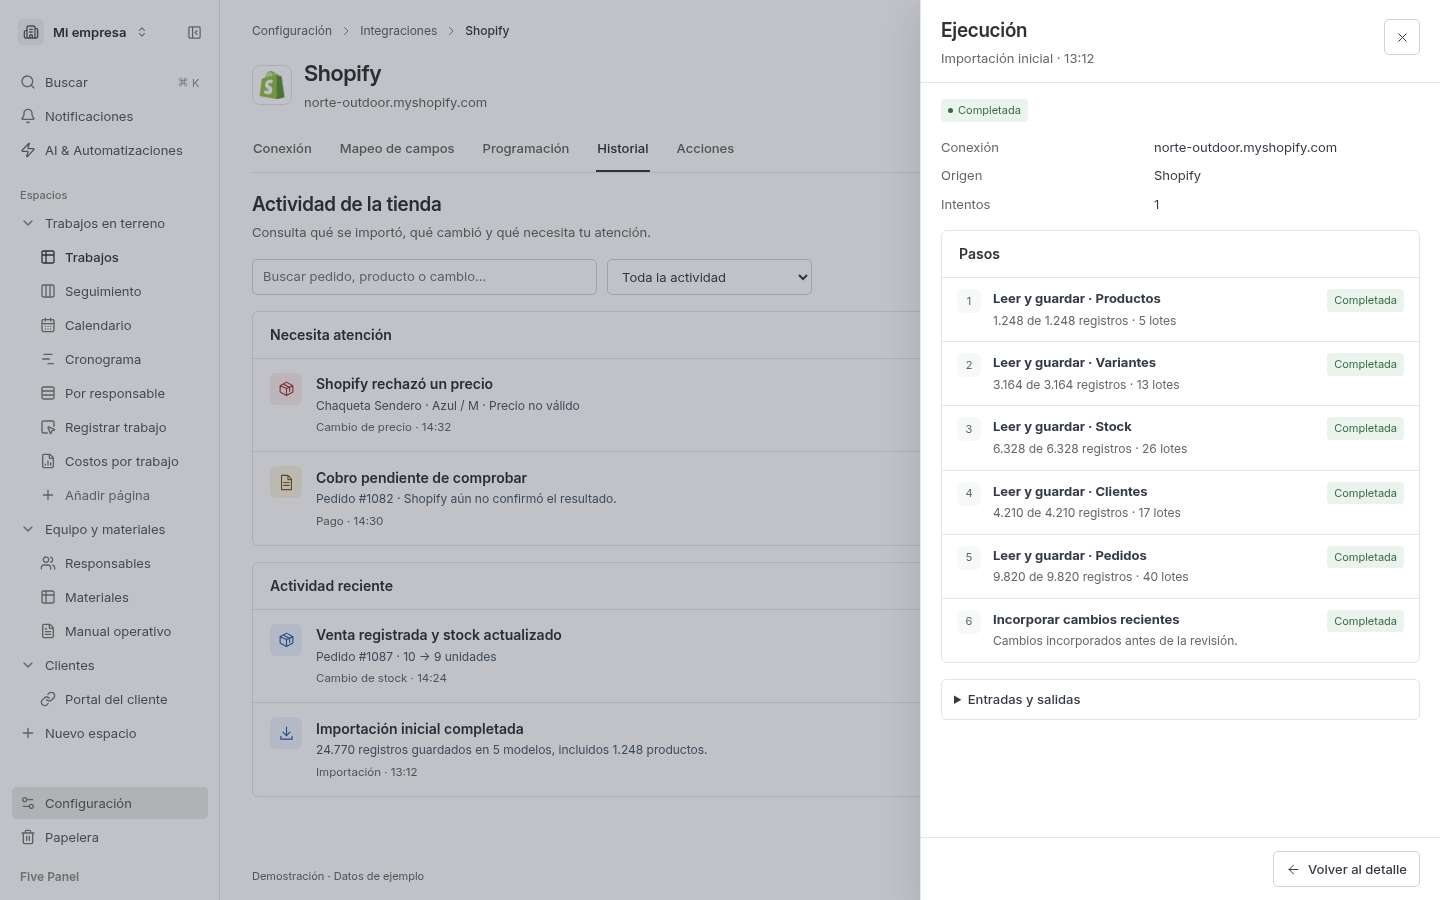
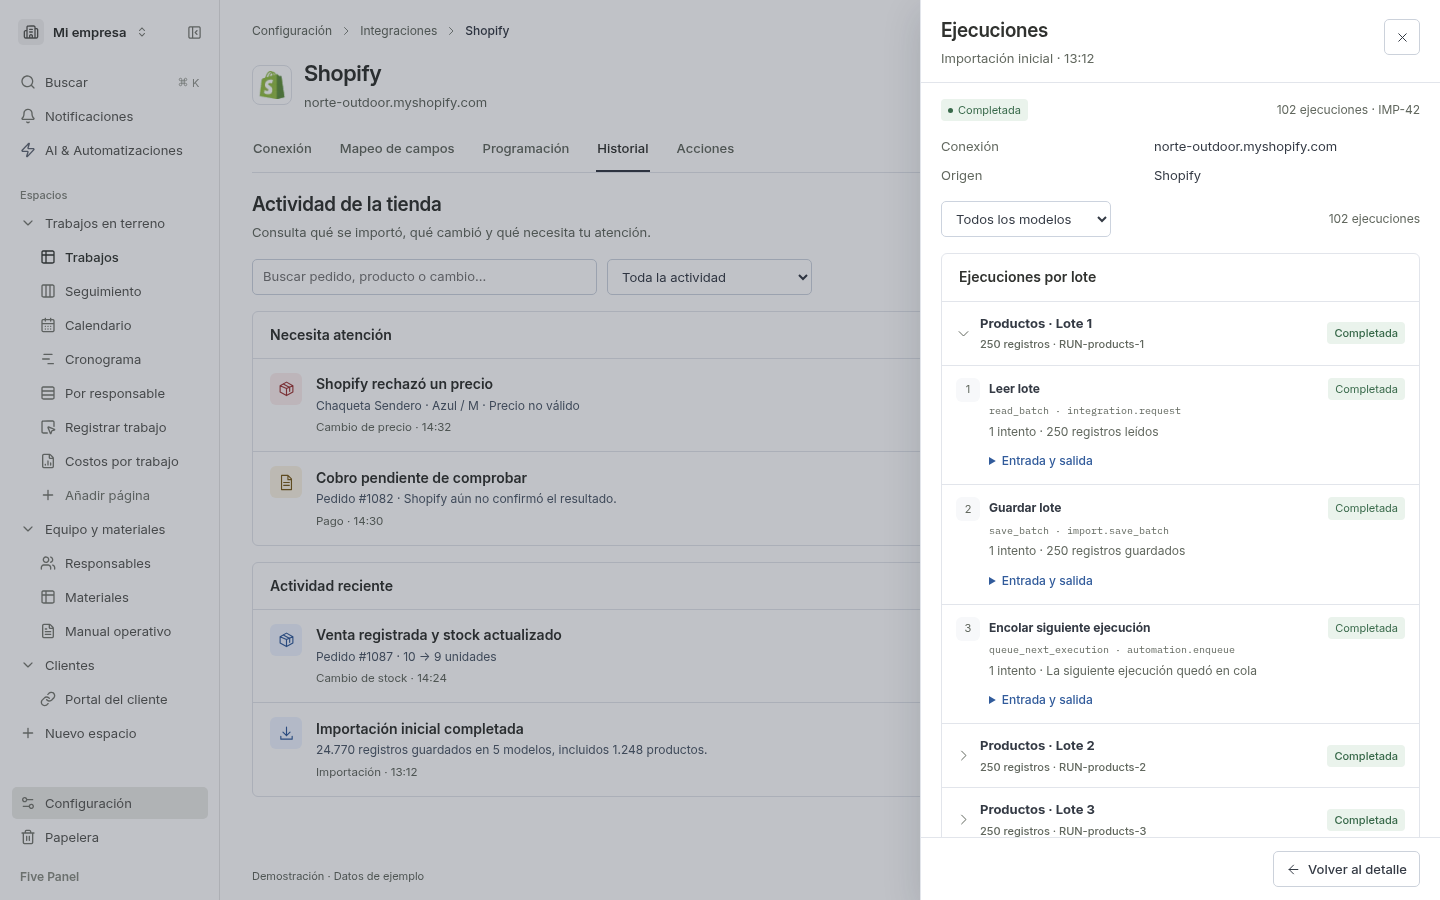
Show each import batch as its own execution

diff --git a/docs/superpowers/plans/2026-11-11-shopify-integration.md b/docs/superpowers/plans/2026-11-11-shopify-integration.md
@@ -67,6 +67,7 @@ Define shared types in proposed `backend/src/types/integration.ts`:
 - `SaveBatchResult`: `{ saved: number; processed: number; nextExecution: NextExecution }`.
 - `ImportReview`: import ID/phase, per-resource counts and sample-record links, ownership/schedule/action summaries, permission/baseline warnings, and `canActivate: boolean` with blocking reasons.
 - `ActivityPage`: `{ items: ActivitySummary[]; nextCursor: string | null }`; `ActivitySummary` contains operation ID, business kind/status/summary, progress, record/execution links, and allowed follow-up actions. Define these DTOs with the shared activity service in Task 9.
+- `ExecutionPage`: `{ items: ExecutionSummary[]; nextCursor: string | null }`; each summary contains the existing run ID, resource, batch number, status, time, and step statuses. Fetch that run's saved step inputs/outputs, attempt counts, and errors when expanded.
 
 IDs are real UUIDs in storage and API calls. `IMP-42`, `page-2`, 250, and 1,248 in the conversation are explanatory examples; provider cursors are opaque, and totals can be unknown.
 
@@ -137,7 +138,7 @@ The Shopify preset uses a pinned Admin GraphQL API version, initially `2026-10`.
 
 **Files:** create `backend/src/services/ConnectionImportService.ts`, `backend/src/services/RecordLinkService.ts`, `backend/src/services/automation/importSaveBatch.ts`, `backend/src/integrations/shopify/importDefinitions.ts`, and `backend/src/routes/connectionRoutes.ts`; modify configuration repository, automation service/handler map, `backend/src/services/DataService.ts`, `ModelService.ts`, `backend/src/types/schema.ts`, and `backend/src/index.ts`; test new `backend/test/integration/connectionImports.test.ts`.
 
-**Interfaces:** import service produces `start({ user, connectionId }): Promise<{ importId: string }>`, `saveBatch({ context, importId, resource, cursor, batch }): Promise<SaveBatchResult>`, and `review({ user, connectionId }): Promise<ImportReview>`. Link service produces `findOrSave({ user, mapping, remoteId, values, eventContext }): Promise<{ recordId: string; created: boolean }>` using `DataService`.
+**Interfaces:** import service produces `start({ user, connectionId }): Promise<{ importId: string }>`, `saveBatch({ context, importId, resource, batchNumber, cursor, batch }): Promise<SaveBatchResult>`, and `review({ user, connectionId }): Promise<ImportReview>`. Link service produces `findOrSave({ user, mapping, remoteId, values, eventContext }): Promise<{ recordId: string; created: boolean }>` using `DataService`.
 
 - [ ] Test incomplete mappings, duplicate IDs, interrupted save/enqueue, replayed cursor, unknown total, and a Shopify-owned starting value in a future Five Panel-owned field. Assert failed batches roll back records, progress, and events; completed batches remain after the next step fails.
 - [ ] Add authenticated `POST /connections/:id/imports` for **Save and import** and `GET /connections/:id/import-review`. Validate selected mappings, dependencies, locations, and permissions. Under the connection lock, repeated starts return the same active import. Freeze its mapping version; edits require new review, not checkpoint rewriting.
@@ -145,9 +146,10 @@ The Shopify preset uses a pinned Admin GraphQL API version, initially `2026-10`.
 - [ ] Establish each location's starting stock with a final inventory read after catch-up; save its observation/cutover and mark already represented movements without subtracting them again. New movement identity uses the movement's time/state, not the parent order's creation time. If a consistent baseline cannot be confirmed, retain pending stock and block outgoing quantity writes.
 - [ ] Save selected external IDs on business records for import/external creation, using compatible unique fields. Add generic `systemManaged?: boolean` field metadata and an internal `managedFieldWrites?: string[]` DataService option. Ordinary API/automation writes cannot change those IDs; only the validated link service supplies that option. Model edits preserve the managed flag. Test ordinary edit denial and authorized link writes. Do not assume the reserved `externalId` column supports arbitrary updates; conflicting links stop for explicit review, never fuzzy matching.
 - [ ] Lock the current import checkpoint, validate expected cursor, save records/events/progress and the runner's next **step** job in one transaction. `save_batch` returns `nextExecution`; it does not start the next batch. The checkpoint rejects stale replays and unchanged cursors. After the last resource, catch up and return `nextExecution: null`.
+- [ ] Each batch creates one run with the complete read/save/enqueue sequence. Save trusted resource/batch metadata; a retry keeps its run ID, completed read output, and step positions. Configure `save_batch` for three attempts with a five-second delay on normalized `temporary_database_error`. A safe manual retry uses the existing retry-wait path and cannot shorten its saved delay or increase its limit.
 - [ ] Run `npx tsx --test test/integration/connectionImports.test.ts` in `backend/` against a fresh disposable database. Assert five batch executions for the 1,248/250 fixture, cumulative counts `250, 500, 750, 1000, 1248`, and one stable `operationId = importId`. Commit.
 
-Each connection/resource receives a preset batch automation with a fixed action, preserving Task 4's snapshot rule. The initial event carries `importId`, `cursor: null`, and `limit`; each successor includes the opaque next cursor. The same import ID groups resources and catch-up work.
+Each connection/resource receives a preset batch automation with a fixed action, preserving Task 4's snapshot rule. The first event carries `importId`, `cursor: null`, `limit`, and `batchNumber: 1`; a successor increments its resource's batch number and includes the opaque cursor. A new resource starts at batch 1. The same import ID groups resources and catch-up work.
 
 ```json
 {
@@ -171,9 +173,11 @@ Each connection/resource receives a preset batch automation with a fixed action,
       "input": {
         "importId": "{{ event.data.importId }}",
         "resource": "products",
+        "batchNumber": "{{ event.data.batchNumber }}",
         "cursor": "{{ event.data.cursor }}",
         "batch": "{{ steps.read_batch.output.data }}"
-      }
+      },
+      "retry": { "maxAttempts": 3, "delaySeconds": 5, "retryableErrors": ["temporary_database_error"] }
     },
     {
       "name": "queue_next_execution",
@@ -224,11 +228,11 @@ Each connection/resource receives a preset batch automation with a fixed action,
 
 **Files:** create `backend/src/services/AutomationActivityService.ts`, `backend/src/repositories/AutomationActivityRepository.ts`, `backend/src/routes/automationActivityRoutes.ts`; extend trusted event metadata, automation service/repository, and run filtering; test new `backend/test/integration/automationActivity.test.ts`.
 
-**Interfaces:** `find({ user, connectionId?, operationId?, cursor? }): Promise<ActivityPage>` returns grouped activity and contextual record/action links. Extend trusted emit metadata with `{ connectionId, resource?, recordId?, action?, activityKind }`; the client cannot supply company or trusted source metadata. Activity IDs are operation IDs.
+**Interfaces:** `find({ user, connectionId?, operationId?, cursor? }): Promise<ActivityPage>` returns grouped activity and contextual record/action links. Add `findExecutions({ user, operationId, resource?, cursor? }): Promise<ExecutionPage>`. Extend trusted emit metadata with `{ connectionId, resource?, batchNumber?, recordId?, action?, activityKind }`; the client cannot supply company or trusted source metadata. Activity IDs are operation IDs; execution IDs are the existing run IDs.
 
-- [ ] Test one import activity across five runs, restarted batches, two companies, and more than 100 runs. Assert cumulative progress is not summed twice and all execution pages remain reachable; do not inherit the current unpaginated 100-run default.
+- [ ] Test one import activity across five runs, a retried batch, two companies, and more than 100 runs. Assert cumulative progress is not summed twice, retries do not create another run, and filtering/pagination reaches every run with all its steps. Do not inherit the current unpaginated 100-run default.
 - [ ] Query existing events/runs by trusted source and operation ID. Derive import totals from committed checkpoints/step outputs and preserve final summaries in those runs. No duplicate activity table or per-product import entries. Keep old activities after `currentImport` changes.
-- [ ] Add authenticated `GET /automation-activities` and paginated operation-run details. Project business labels/statuses and links through shared activity code; Shopify supplies action/result meanings. Keep scheduled-job summaries in existing `JobExecutionService.ts`.
+- [ ] Add authenticated `GET /automation-activities` and `GET /automation-activities/:operationId/runs?resource=&cursor=` for summaries ordered by `(createdAt, id)` in execution order. Reuse `GET /automation-runs/:id` for individual run details without changing legacy list responses. Keep each run's ordered `stepRuns` and saved logs separate; a model-wide summary is not a synthetic execution. Keep scheduled-job summaries in `JobExecutionService.ts`.
 - [ ] Return repair/check affordances according to real saved state. Price repair opens the variant; corrected source data starts a fresh safe sync intent and links back to the prior activity. Payment check uses Task 8; resolve/retry still enforce permissions and uncertainty.
 - [ ] Run `npx tsx --test test/integration/automationActivity.test.ts` in `backend/` with its disposable database. Expected: pass with stable grouping, pagination, and company isolation. Commit.
 
@@ -243,6 +247,8 @@ Each connection/resource receives a preset batch automation with a fixed action,
 - [ ] Add authenticated `POST /connections/:id/activate`, `POST /connections/:id/pause`, `POST /connections/:id/disconnect`, and `PUT /connections/:id/credentials` in `connectionRoutes.ts`; handlers call services. Activation rechecks catch-up, baseline, mapping, and permissions. Require current company-admin checks for setup/automation administration and service permissions for business records. Schedule changes reuse scheduled automation events; validate company/target, save settings and queued schedule changes together, and honor pause/disconnect when jobs fire.
 - [ ] Extend generic connection creation with base address and supported authentication. The Actions tab lists presets and lets an admin add/edit named actions, endpoint/method/headers/body, GraphQL document/variables, and output/error rules. Reuse the existing JSON editor components for structured fields. Secret fields are write-only credential inputs. Preserve existing file integration cards and screens.
 - [ ] Implement open order → cancel → review options → confirm → result, price repair → related variant → return, and payment check → verified result. Show business activity first and **View execution** for actual runs/batches/steps. Match existing theme tokens; translate visible copy, keep JSON names English, support keyboard/focus and 390 px layouts.
+- [ ] In `ExecutionDetails.vue`, render **activity → batch runs → steps**. Each expandable run is labeled by model and batch number; its read, save, and enqueue steps own their input/output/error and attempt display. Start with five run summaries per page, filter by model, and load full run detail when expanded. Keep catch-up as its own execution. Offer retry at the eligible step using `POST /automation-runs/:id/retry`; a failed/uncertain run without a scheduled safe retry cannot use that control.
+- [ ] Browser test: open Products batch 2, fail save after read succeeds, then retry safely. Assert the same run ID, read attempt count stays 1 with identical output, save attempt count becomes 2, and enqueue runs once. Batch 1 stays completed. Check the same hierarchy, keyboard expansion, filter, pagination, and no horizontal overflow at 1440 and 390 px.
 - [ ] Run `npm --prefix frontend test`, `npm --prefix frontend run build`, and the Shopify browser journey through Docker. Assert all thirteen saved screen states plus custom-action editing, reload persistence, and foreign-company denial. Commit.
 
 ## Task 11: Verify the complete flow and existing behavior
@@ -267,7 +273,7 @@ Each connection/resource receives a preset batch automation with a fixed action,
 | Commerce actions and uncertain outcomes | 2, 8 |
 | Activity, execution detail, and recovery | 9–11 |
 
-The [design index](../../../issues/279-shopify-designs/README.md) lists every frame and its required behavior. The design agent reported 29 mock interaction checks at each of 1440 and 390 px; this plan requires new application checks rather than treating those as backend evidence.
+The [design index](../../../issues/279-shopify-designs/README.md) lists every frame and its required behavior. The updated prototype passes 46 mock interaction checks at each of 1440 and 390 px, including the run/step hierarchy and same-run retry. This plan still requires application and provider checks; prototype results are not backend evidence.
 
 Primary references for implementation:
 

diff --git a/issues/279-shopify-designs/README.md b/issues/279-shopify-designs/README.md
@@ -1,6 +1,6 @@
 # Shopify #279 designs
 
-These are the final designs recovered from Paseo agent `c69a9494-0dc7-4e52-92e5-fba3461aec79`, including its later history and batch-import changes. They accompany the [spec](../279-create-integration-shopify.md) and [implementation plan](../../docs/superpowers/plans/2026-11-11-shopify-integration.md).
+These designs were recovered from Paseo agent `c69a9494-0dc7-4e52-92e5-fba3461aec79`, including its history and batch-import changes, then updated to show a separate run for each batch. They accompany the [spec](../279-create-integration-shopify.md) and the **[implementation Markdown](../../docs/superpowers/plans/2026-11-11-shopify-integration.md)**.
 
 - [Interactive prototype](https://five-pane-dev-server.tail7d89bf.ts.net/c/J88FjcHO5C/proto?frame=VUYT7ICyJS)
 - [Doop canvas](https://five-pane-dev-server.tail7d89bf.ts.net/c/J88FjcHO5C?frame=VUYT7ICyJS), page `zp_Uo9vkUL`
@@ -19,11 +19,13 @@ The PNGs below are repository copies of the final renders from `shopify-279-prot
 | Actions | [actions.png](actions.png) | `vsyHfrcj9u` | Configure defaults and open a related order to perform an action. |
 | Order cancellation | [cancel.png](cancel.png) | `ID1IL28Ibm` | Open order, review restocking, notification, and reason, then confirm. Explain the separate refund. |
 | Business activity | [history.png](history.png) | `cJKSK_GsU_` | Show business results, one initial-import activity, and useful follow-up actions. |
-| Execution details | [execution.png](execution.png) | `-HdlEAYNEE` | Open the shared viewer for runs, batches, steps, inputs, outputs, errors, and attempts. |
+| Execution details | [execution.png](execution.png) | `-HdlEAYNEE` | List batch runs; expand each run for its own read/save/enqueue steps and each step's inputs, outputs, errors, and attempts. Filter by model and page through runs. |
 | Price repair | [repair.png](repair.png) | `WixSssQs3-` | Open the affected variant, correct it, and return to the same activity. |
 | Payment verification | [payment.png](payment.png) | `OXaCYDg3Wm` | Check an uncertain result before offering a safe retry. |
 | Disconnection | [disconnect.png](disconnect.png) | `ZegunwU2g6` | Stop future requests and reconnect the same store without losing setup. |
 | Mobile review | [mobile.png](mobile.png) | `JslXqM79CD` | Keep all tabs and activation reachable at 390 px. |
+
+The same execution viewer is also captured at 390 × 844: [execution-mobile.png](execution-mobile.png).
 
 ## Agreements from the conversation
 
@@ -32,6 +34,7 @@ The PNGs below are repository copies of the final renders from `shopify-279-prot
 - Import belongs in Field mapping, with one **Save and import** action. Selected models with incomplete mappings block that action.
 - History is a reusable business activity view. **View execution** opens a separate reusable technical viewer; both use the same saved execution data.
 - One import can have many batch executions. For example, 1,248 products at 250 per batch take five executions, while remaining one activity. These counts are illustrative.
+- The execution viewer shows **Products · Batch 1 → all its steps; Products · Batch 2 → all its steps**. A safe retry keeps the same run ID and completed outputs; only the failed step gains an attempt. Catch-up has its own execution. There is no shared input/output or attempt panel pretending all batches are one run.
 - The final batch agreement is **read → save → enqueue**. `save_batch` returns `nextExecution`; the separate generic `automation.enqueue` step receives it. `null` means no further execution. Pass `importId`, `cursor`, and `limit` explicitly, using English JSON fields and step names.
 - The screenshots illustrate the Shopify preset. The generic HTTP connection and custom-action editor discussed in the main conversation are also required by the spec; these thirteen screens do not provide a separate design for those controls.
 
@@ -39,10 +42,14 @@ The PNGs below are repository copies of the final renders from `shopify-279-prot
 
 The design agent recorded **29 prototype interaction checks at each of 1440 and 390 px**. They covered setup state, mapping requirements, import/review, activation/pause, cancellation, history, samples, price repair, payment verification, reconnection, keyboard use, and focus return.
 
-Those checks used mock data and simulated work in rendered prototype HTML. They do not prove Shopify authorization, API calls, database transactions, queue recovery, or application behavior. The execution drawer groups work by model; implementation must also let users inspect the actual read, save, and enqueue steps inside each batch.
+The revised prototype passes **46 interaction checks at each of 1440 × 900 and 390 × 844**, through the Paseo browser. Added checks cover per-batch runs, all three steps in each run, exact read/save/enqueue handoff, filtering, pagination, the final smaller batch, and retrying save in the same run without repeating read or a prior batch.
+
+These checks use mock data and simulated work. They do not prove Shopify authorization, API calls, database transactions, queue recovery, or application behavior.
 
 ## Preview
 
 ![Field mapping, readiness, and Save and import](mapping.png)
 
 ![Business activity with repair and verification actions](history.png)
+
+![Separate batch runs with their complete step sequences](execution.png)

diff --git a/issues/279-create-integration-shopify.md b/issues/279-create-integration-shopify.md
@@ -42,7 +42,7 @@ Exact interfaces and file changes are in the implementation plan.
 
 5. **Execute actions.** Generic `integration.request` runs saved HTTP/GraphQL actions; `data.map` handles separate data transformations when needed. Users add actions without code registration. Keep Shopify installation, webhook verification, eligibility, and business effects in its connector. Cover order creation/cancellation, payments, shipping, returns, and refunds with explicit options and confirmation. Field corrections never repeat those actions. Keep external calls outside database transactions; freeze action definitions for retries, use stable identities, and pause uncertain outcomes for checking. Pause sync separately from disconnecting.
 
-6. **Show activity and recover.** Reuse saved automation data for a business activity view, filtered to this connection. One initial import remains one activity across batches. Offer record links, price repair, and payment verification. **View execution** opens the shared technical viewer with batches, inputs, outputs, attempts, and errors. Resume completed work safely; keep unknown outcomes paused.
+6. **Show activity and recover.** Reuse saved automation data for business activity, filtered to this connection. One import remains one activity. Offer record links, price repair, and payment verification. **View execution** lists runs by batch: expand each run to see its read, save, and enqueue steps, each with its own inputs, outputs, attempts, and errors. A safe retry resumes the failed step in the same run, preserving completed steps. Filter or page through runs; keep unknown outcomes paused.
 
 ## Done when
 
@@ -51,7 +51,7 @@ Exact interfaces and file changes are in the implementation plan.
 - Selected models pass mapping, resumable import, review, and explicit activation; tab changes preserve state and field ownership is enforced afterward.
 - With both stocks at 10, a Shopify sale leaves both at 9 even with duplicate notifications, reversed delivery order, or a later scheduled check.
 - Commerce actions and recovery avoid duplicate orders, payments, shipments, refunds, and stock effects; uncertain outcomes stay paused.
-- History groups import batches, links business records and recovery actions, and exposes execution details; existing integrations and unrelated automations still work.
+- History groups imports and links records/recovery; each batch run exposes its steps and safe retries preserve completed work. Existing integrations and unrelated automations still work.
 
 ## Out of scope
 
